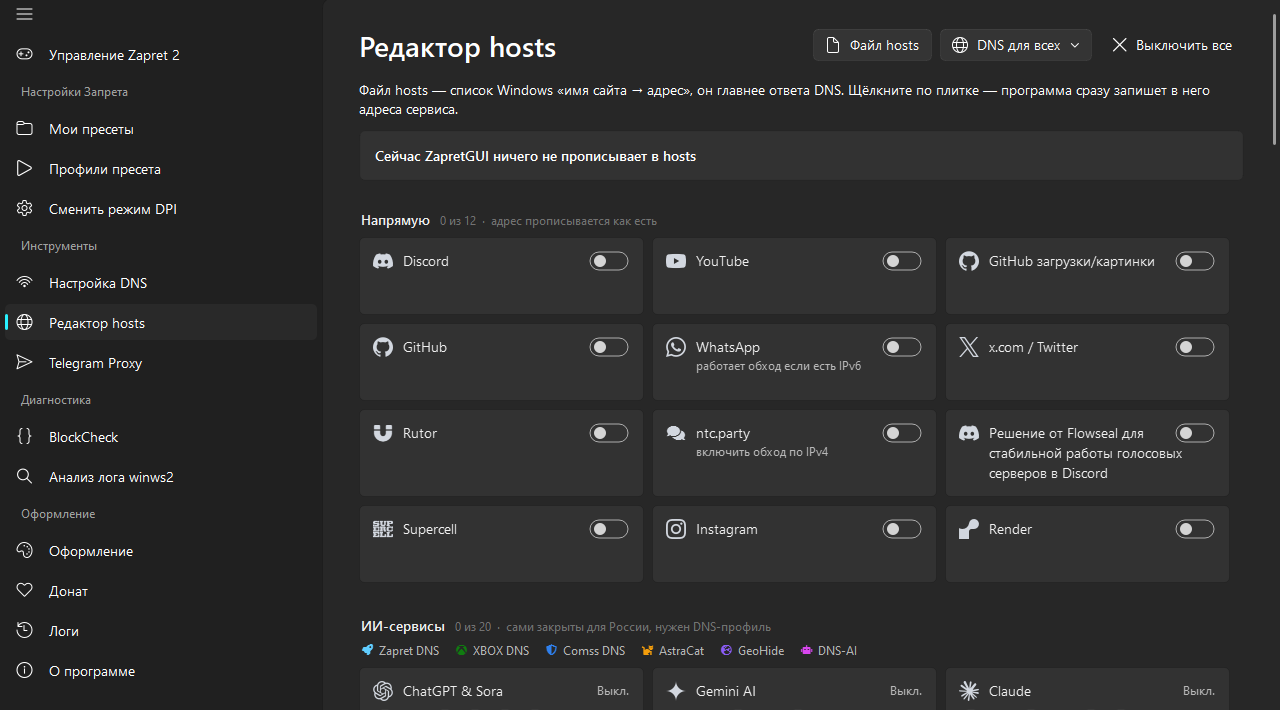
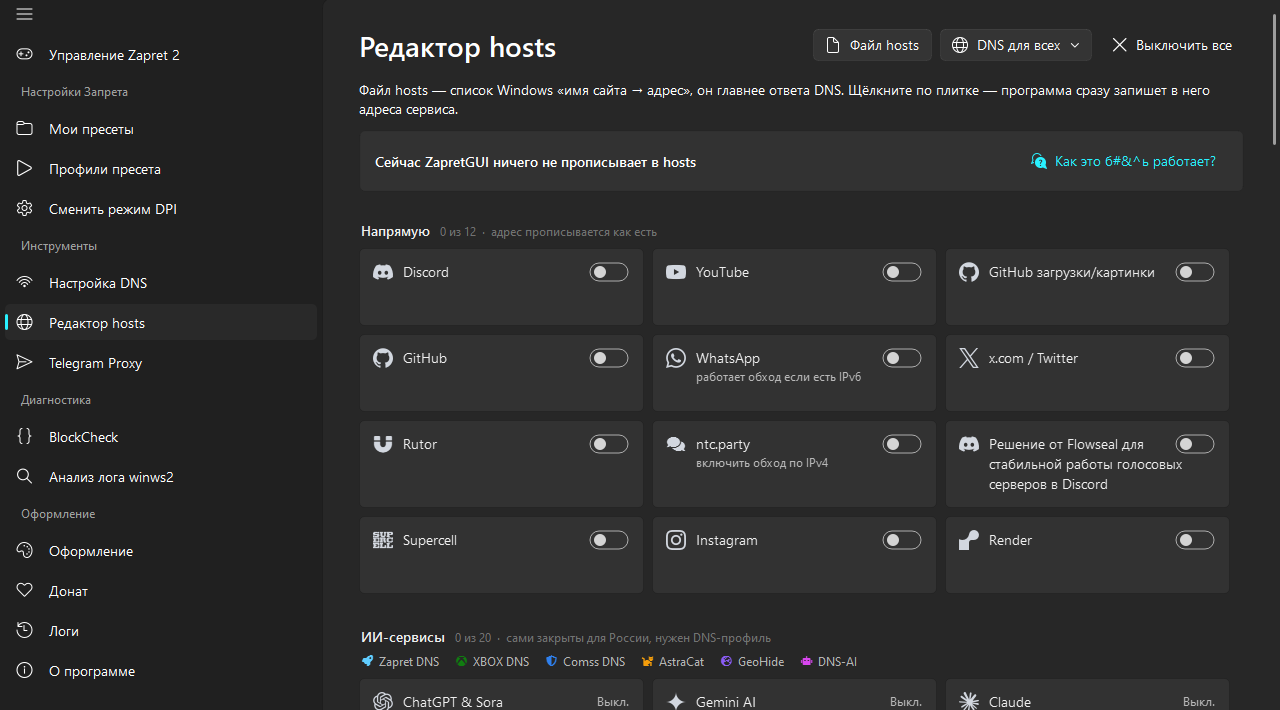
Hosts и BlockCheck: ссылка «Как это работает?» в статьях
В «Редакторе hosts» появилась ссылка «Как это работает?» справа в сводке
(Dev 21.1.7.222): строка о ней в шаге 1 и новый снимок страницы. В статье о
BlockCheck — строка о такой же ссылке в углу страницы и кнопках экскурсии.

diff --git a/Zapret/hosts.md b/Zapret/hosts.md
@@ -53,7 +53,7 @@ image: Zapret/attachments/hosts-v22-editor.png
 
 ## Шаг 1. Откройте «Редактор hosts»
 
-Страница открывается пунктом **«Редактор hosts»** в группе «Инструменты» бокового меню. Сверху — три кнопки: «Файл hosts», «DNS для всех» и «Выключить все». Под ними сводка: сколько сервисов сейчас включено, сколько строк программа держит в файле и когда последний раз проверяла адреса. Пока ничего не включено, сводка пишет «Сейчас ZapretGUI ничего не прописывает в hosts».
+Страница открывается пунктом **«Редактор hosts»** в группе «Инструменты» бокового меню. Сверху — три кнопки: «Файл hosts», «DNS для всех» и «Выключить все». Под ними сводка: сколько сервисов сейчас включено, сколько строк программа держит в файле и когда последний раз проверяла адреса. Пока ничего не включено, сводка пишет «Сейчас ZapretGUI ничего не прописывает в hosts». Справа в сводке — ссылка «Как это работает?»: она открывает эту статью.
 
 Ниже сервисы разложены плитками по группам: «Напрямую», «ИИ-сервисы» и «Остальные сервисы». Наведите мышь на заголовок группы — подсказка объяснит, когда эта группа помогает. Поиск по сервисам открывается по Ctrl+F.
 

diff --git a/Zapret/Blockcheck.md b/Zapret/Blockcheck.md
@@ -51,7 +51,7 @@ BlockCheck — это диагностика: он не чинит сайт са
 
 ## Где найти BlockCheck
 
-Раздел открывается пунктом **BlockCheck** в группе «Диагностика» бокового меню. Сверху у него пять вкладок: **BlockCheck**, **Подбор стратегии**, **Проверка домена**, **DNS-серверы** и **DNS подмена**. Первая вкладка отвечает на общий вопрос «что у меня не открывается и почему», остальные решают отдельные задачи, о них ниже.
+Раздел открывается пунктом **BlockCheck** в группе «Диагностика» бокового меню. Сверху у него пять вкладок: **BlockCheck**, **Подбор стратегии**, **Проверка домена**, **DNS-серверы** и **DNS подмена**. Первая вкладка отвечает на общий вопрос «что у меня не открывается и почему», остальные решают отдельные задачи, о них ниже. Ссылка «Как это работает?» в правом верхнем углу страницы открывает эту статью, а у шагов экскурсии по BlockCheck есть кнопка «Подробнее в вики» — каждая ведёт на свой раздел.
 
 ![[blockcheck-v22-start.png]]
 
